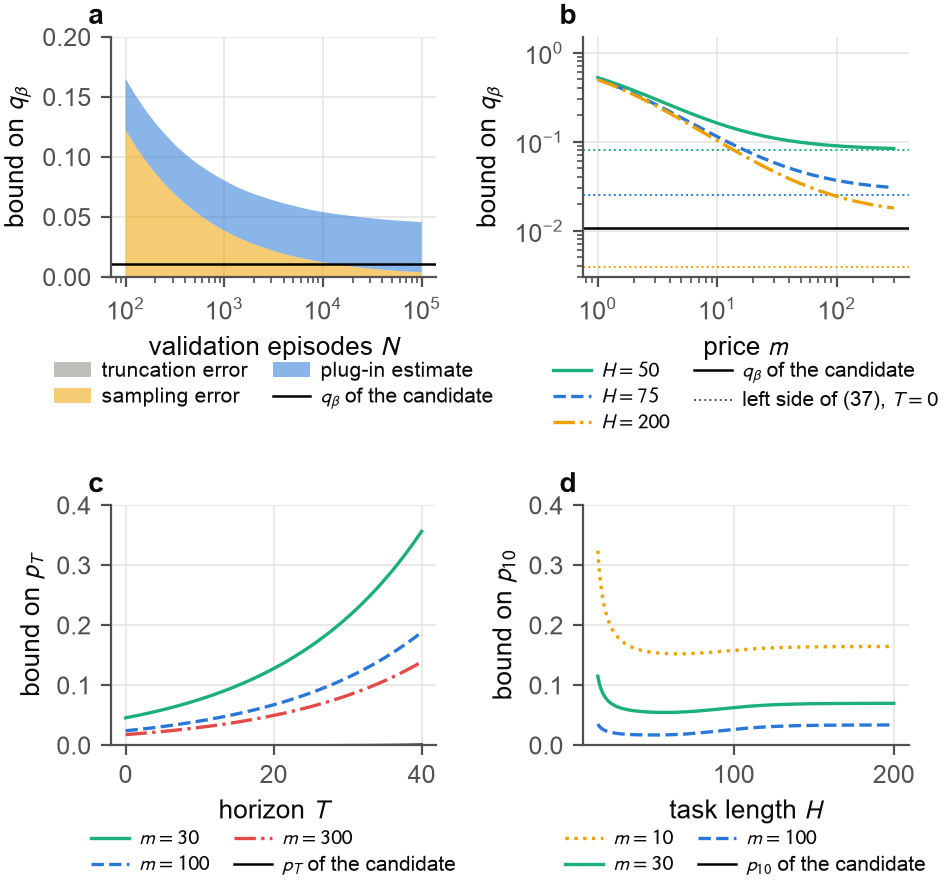
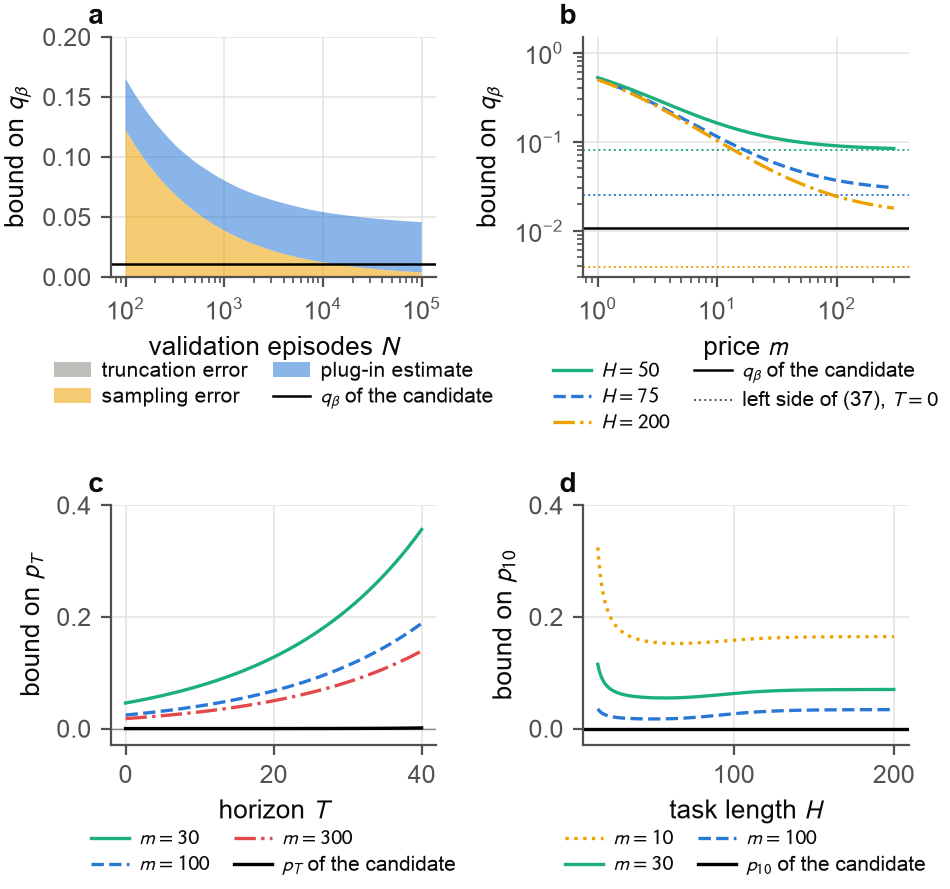
Validation figure of revision 76: in the two panels with the candidate's failure probability the vertical axis starts below zero, so that the line stands clear of the axis

diff --git a/wear-allowance/validation_bounds_v76.py b/wear-allowance/validation_bounds_v76.py
@@ -103,8 +103,10 @@ for m, c, ls in zip(MS_C, (PAL[2], PAL[0], PAL[7]), ("-", "--", "-.")):
     ax.plot(TG, byT[m], color=c, lw=1.2, ls=ls, label=f"$m={m:g}$")
 pTG = np.array([p(int(T_)) for T_ in TG])
 assert all((byT[m] >= pTG).all() for m in MS_C)
-ax.plot(TG, pTG, color="k", lw=0.9, label="$p_T$ of the candidate")
-ax.set_ylim(0, 0.4); ax.set_xlabel("horizon $T$"); ax.set_ylabel("bound on $p_T$"); ax.legend(ncol=2, **LG); panel_label(ax, "c")
+ax.axhline(0, color=MUTED, lw=0.5)
+ax.plot(TG, pTG, color="k", lw=1.2, label="$p_T$ of the candidate")
+ax.set_ylim(-0.03, 0.4);          # the axis starts below zero, so that the candidate's line stands clear of it
+ax.spines["bottom"].set_position(("data", -0.03)); ax.set_xlabel("horizon $T$"); ax.set_ylabel("bound on $p_T$"); ax.legend(ncol=2, **LG); panel_label(ax, "c")
 # a task that ends after H actions: the price is charged from failure to action H - 1
 HG = np.arange(T_D + 5, HMAX + 1)
 bound = {}
@@ -116,8 +118,9 @@ assert all((bound[m] >= pTD).all() for m in MS_D)
 ax = axes[1, 1]
 for m, c, ls in zip(MS_D, (PAL[3], PAL[2], PAL[0]), (":", "-", "--")):
     ax.plot(HG, bound[m], color=c, lw=1.2, ls=ls, label=f"$m={m:g}$")
-ax.axhline(pTD, color="k", lw=0.9, label=f"$p_{{{T_D}}}$ of the candidate")
-ax.set_ylim(0, 0.4); ax.set_xlabel("task length $H$"); ax.set_ylabel(f"bound on $p_{{{T_D}}}$"); ax.legend(ncol=2, **LG); panel_label(ax, "d")
+ax.axhline(0, color=MUTED, lw=0.5)
+ax.axhline(pTD, color="k", lw=1.2, label=f"$p_{{{T_D}}}$ of the candidate")
+ax.set_ylim(-0.03, 0.4); ax.set_xlabel("task length $H$"); ax.set_ylabel(f"bound on $p_{{{T_D}}}$"); ax.legend(ncol=2, **LG); panel_label(ax, "d")
 out = dict(cited=CITED, candidate="incumbent rule min{1, z/(3b)} with dispersion 0.05 of the rate", episodes=N, zeta=ZETA, q_beta=q_beta,
            p_T={str(T_): p(T_) for T_ in (5, 10, 20, 40)},
            bound_on_q_beta_at_m30_H200_by_episodes={str(int(n)): float(s) for n, s in zip(Ngrid[[0, len(Ngrid) // 2, -1]], P.sum(1)[[0, len(Ngrid) // 2, -1]])},
